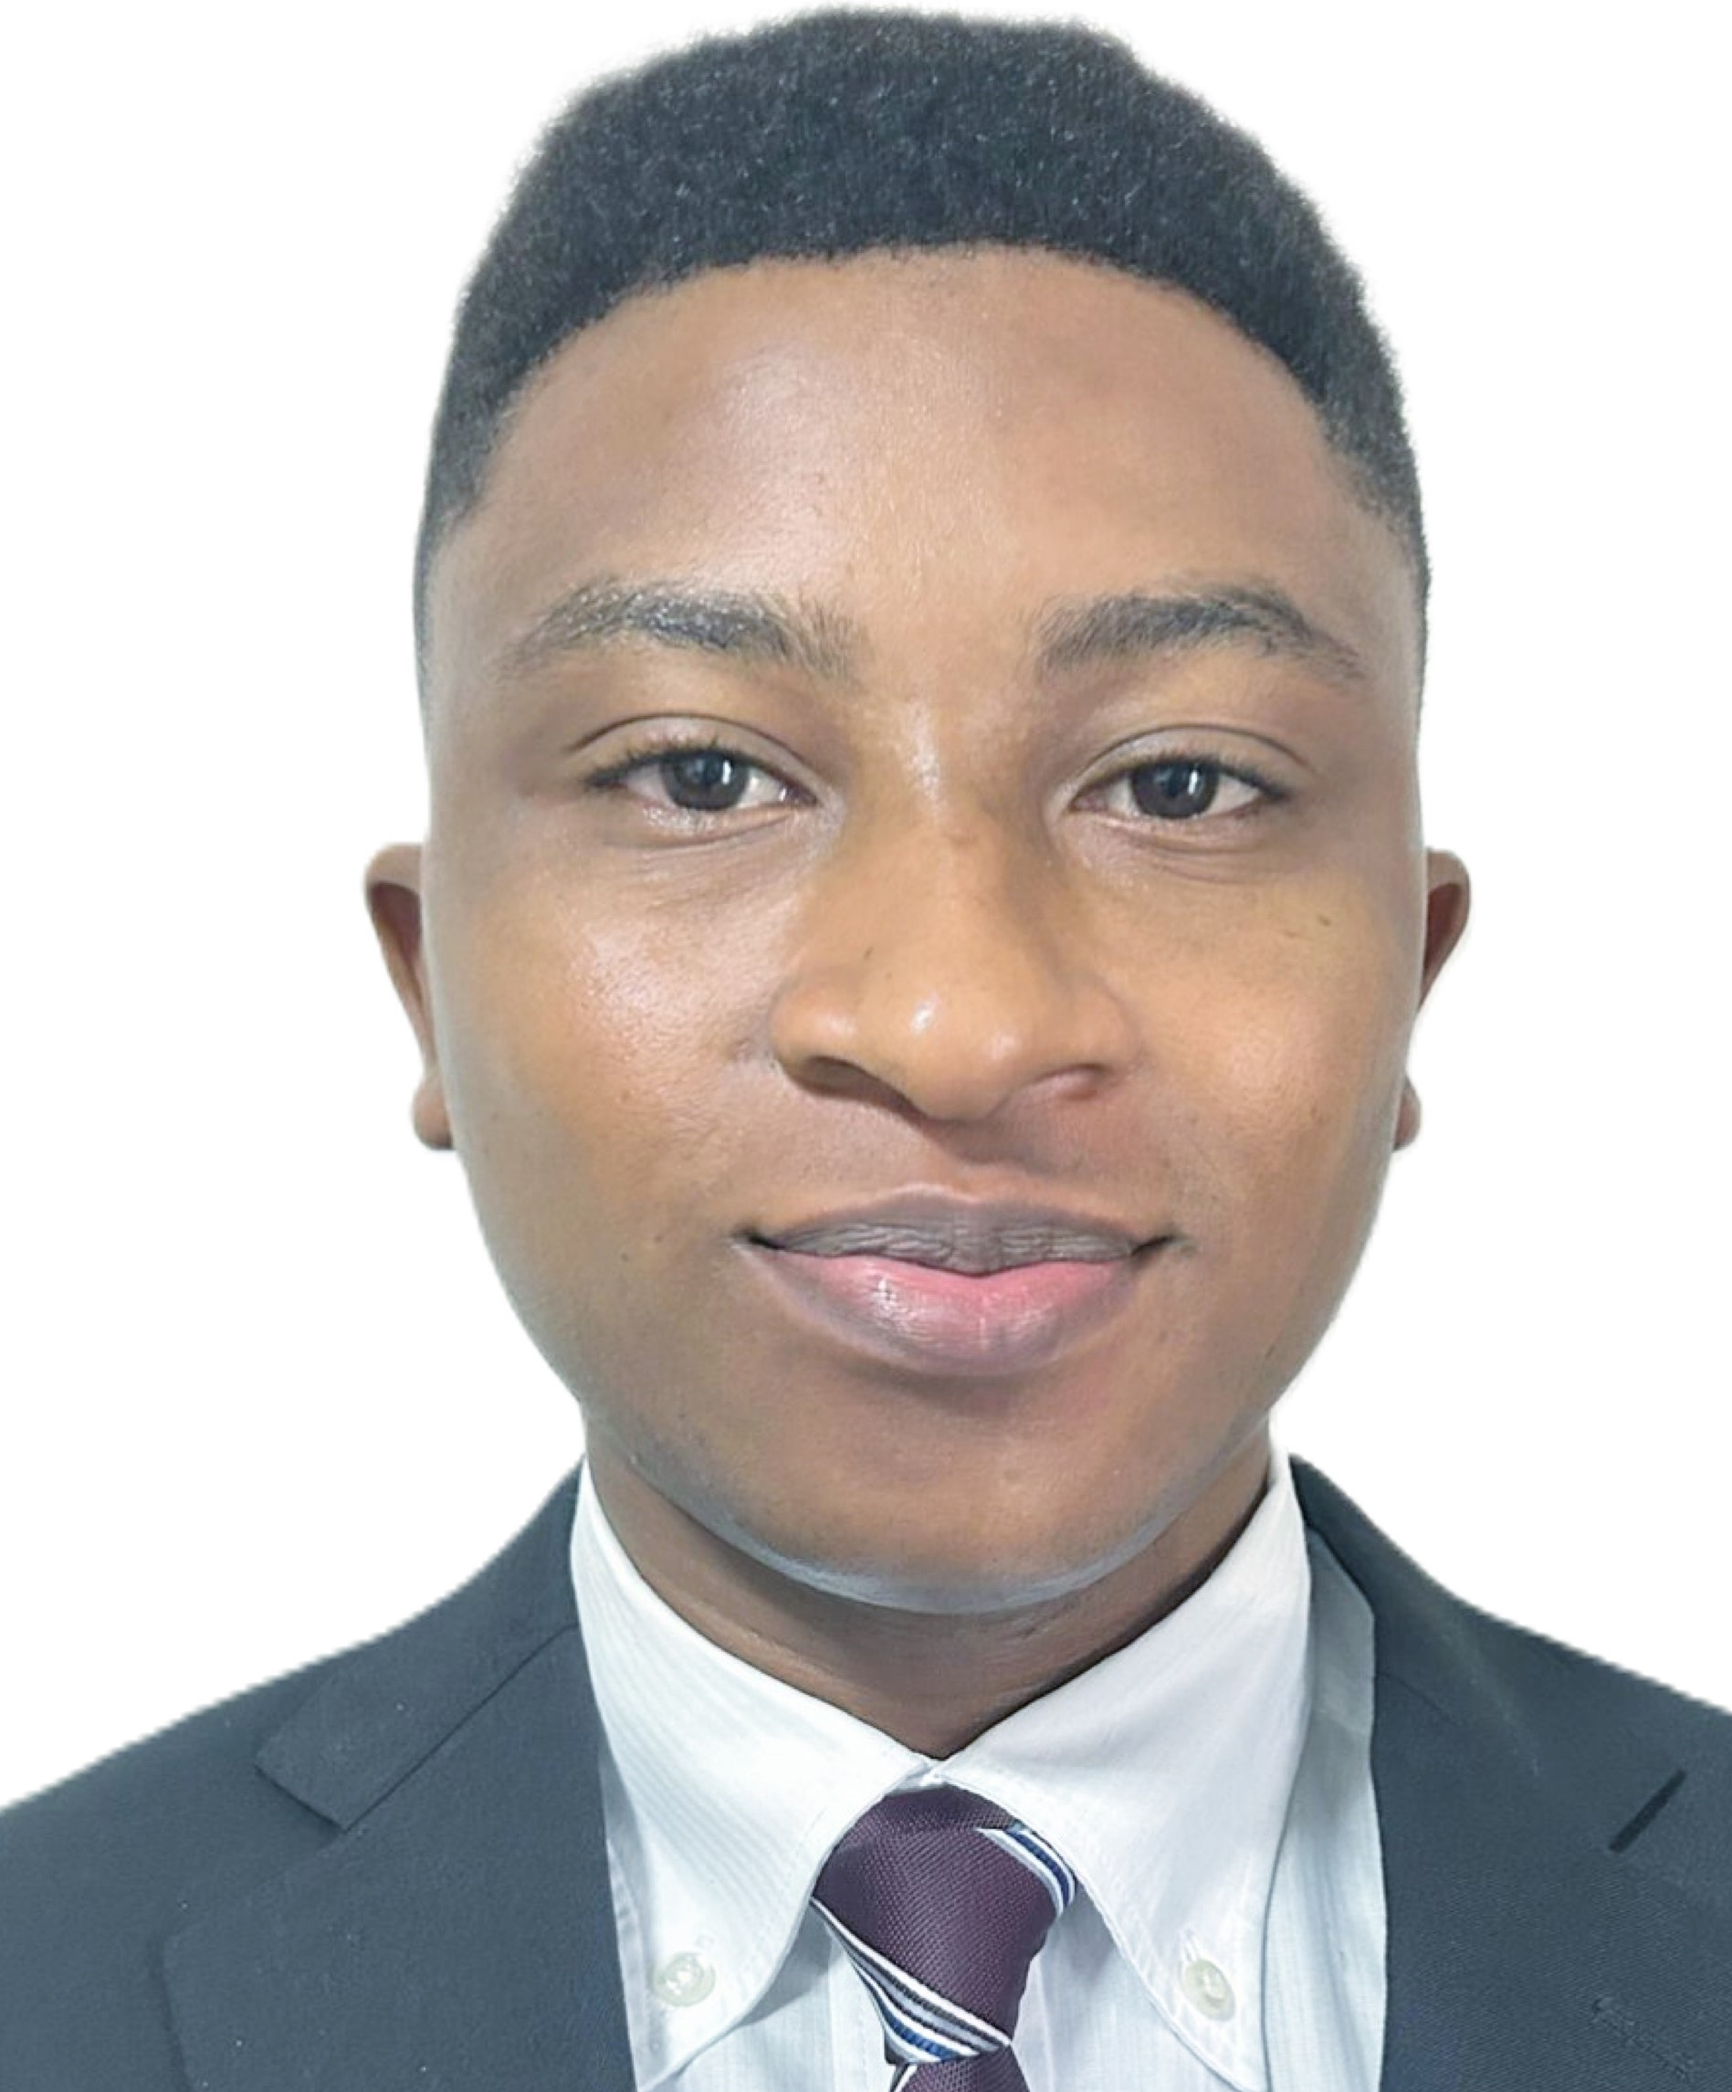
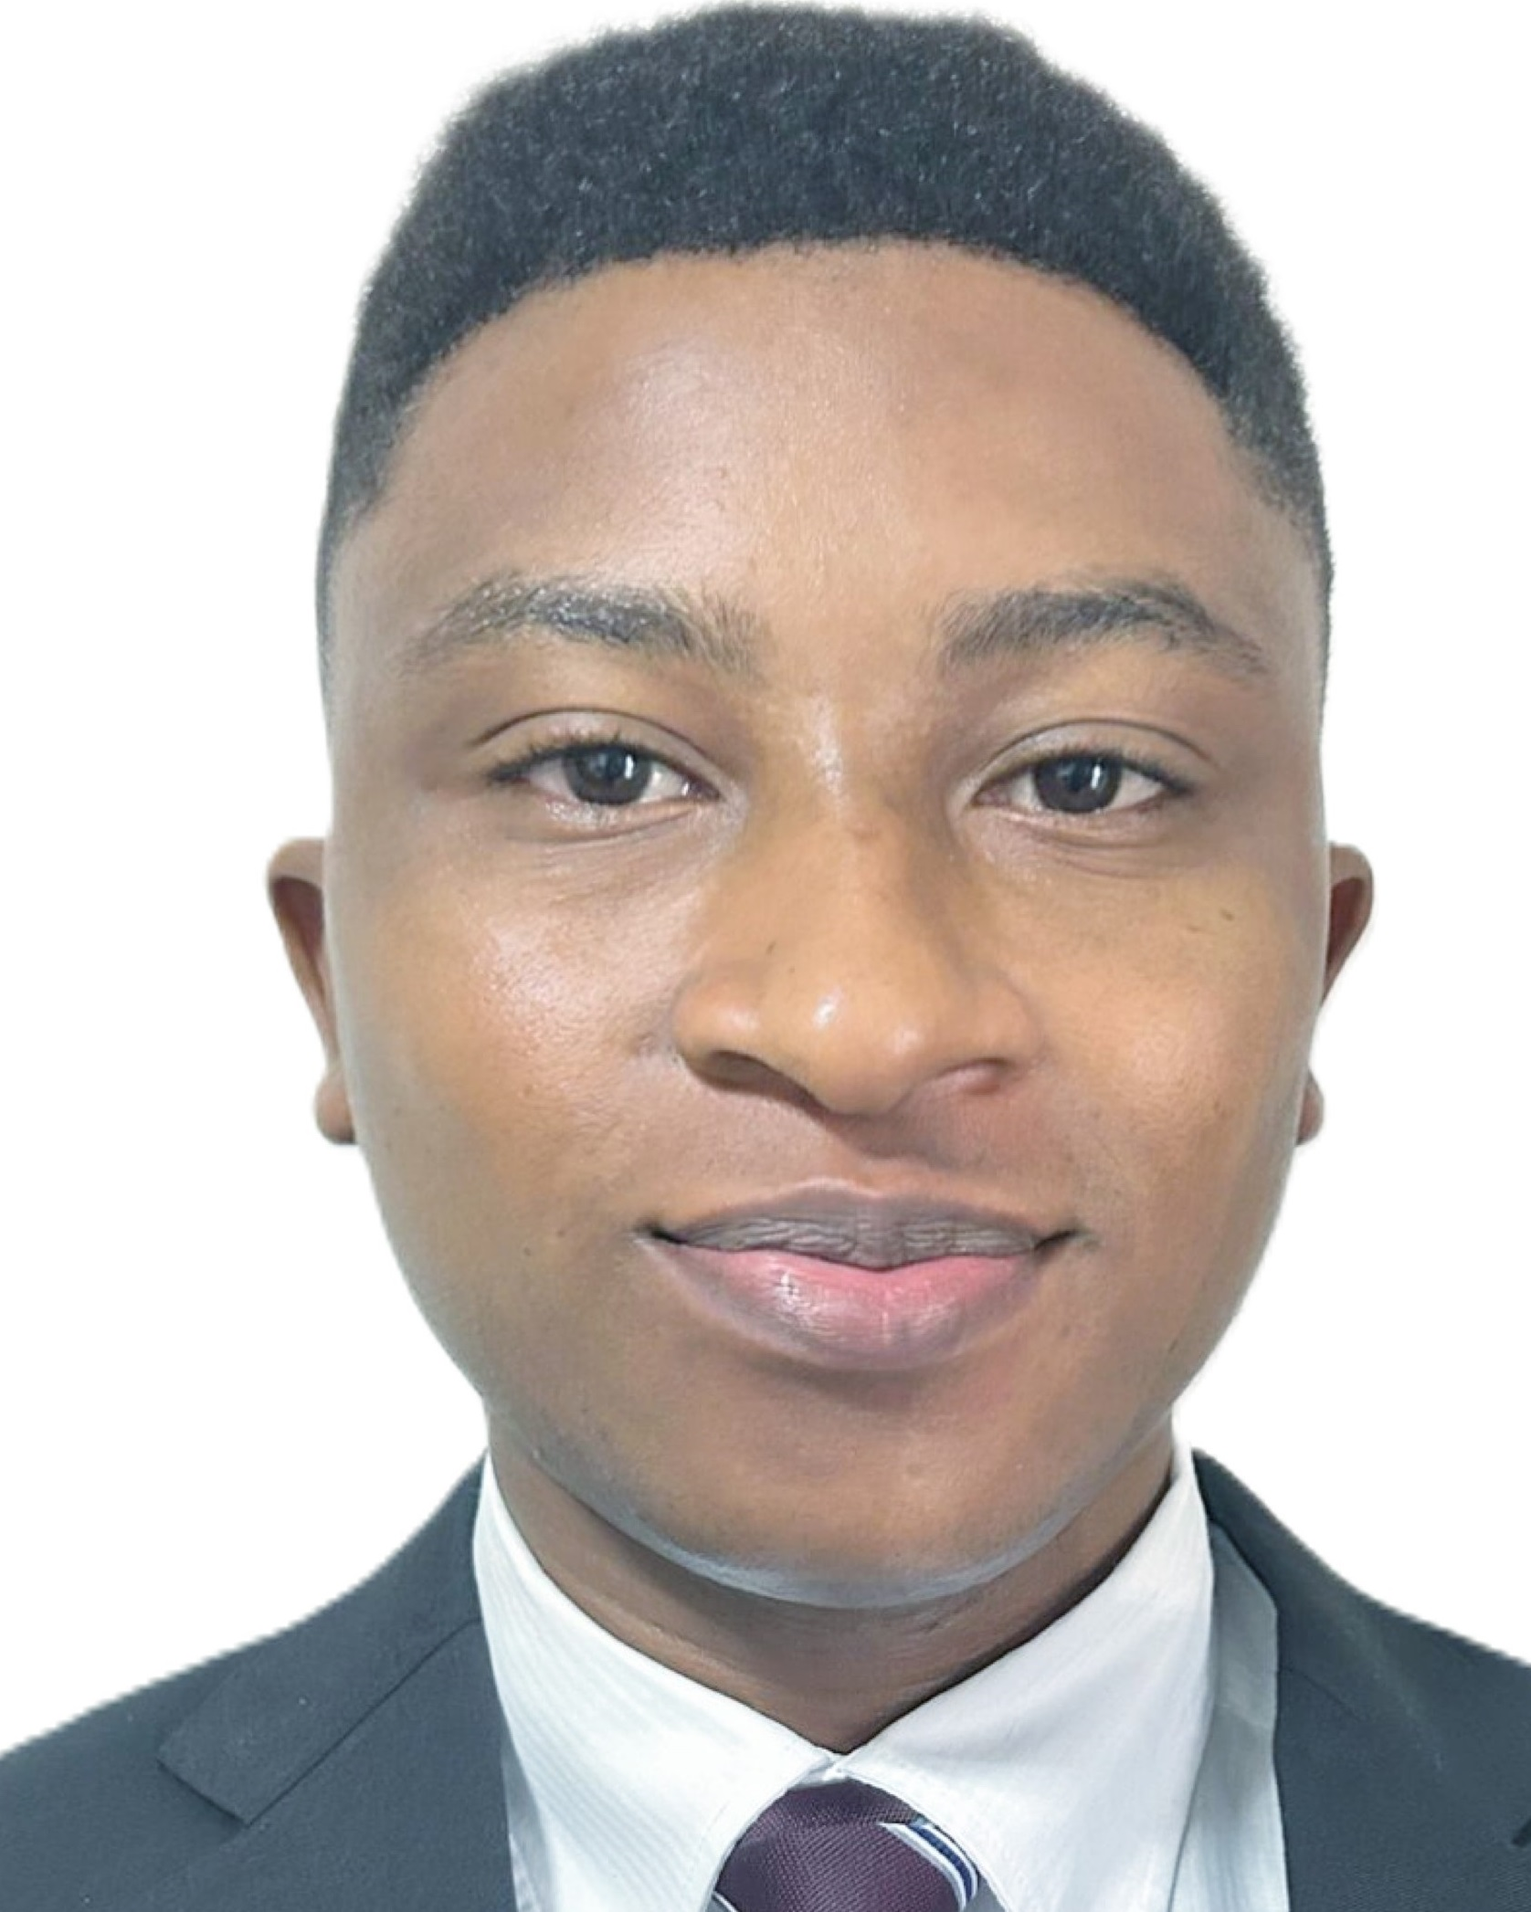
updatecode

diff --git a/codes.html b/codes.html
@@ -26,16 +26,16 @@
 
   <table width="1200px" border="1">
       <tr>
-          <td rowspan="1">
+          <td rowspan="2">
               <img src="/Robots_EnvirConserv/images/ajibo.JPG" alt="My Photo" width="100%">
           </td>
-          <th width="700px" height="50px" bgcolor="PaleGreen">Something</th>
+          <th width="300px" height="50px" bgcolor="PaleGreen">Something</th>
       </tr>
       <tr>
           <td>
               <ul>
                   <li>Name : Ajibo Chinenye Augustine</li>
-                  <li>Qualification : PhD in E(Japan),M.Engr(Nigeria),B.Engr(Nigeria)</li>
+                  <li>Qualification : PhD in Engr.(Japan),M.Engr.(Nigeria),B.Engr.(Nigeria)</li>
                   <li>Intrest : X</li>
                   <li>Hobby : X</li>
                   <li>Religion : X</li>
